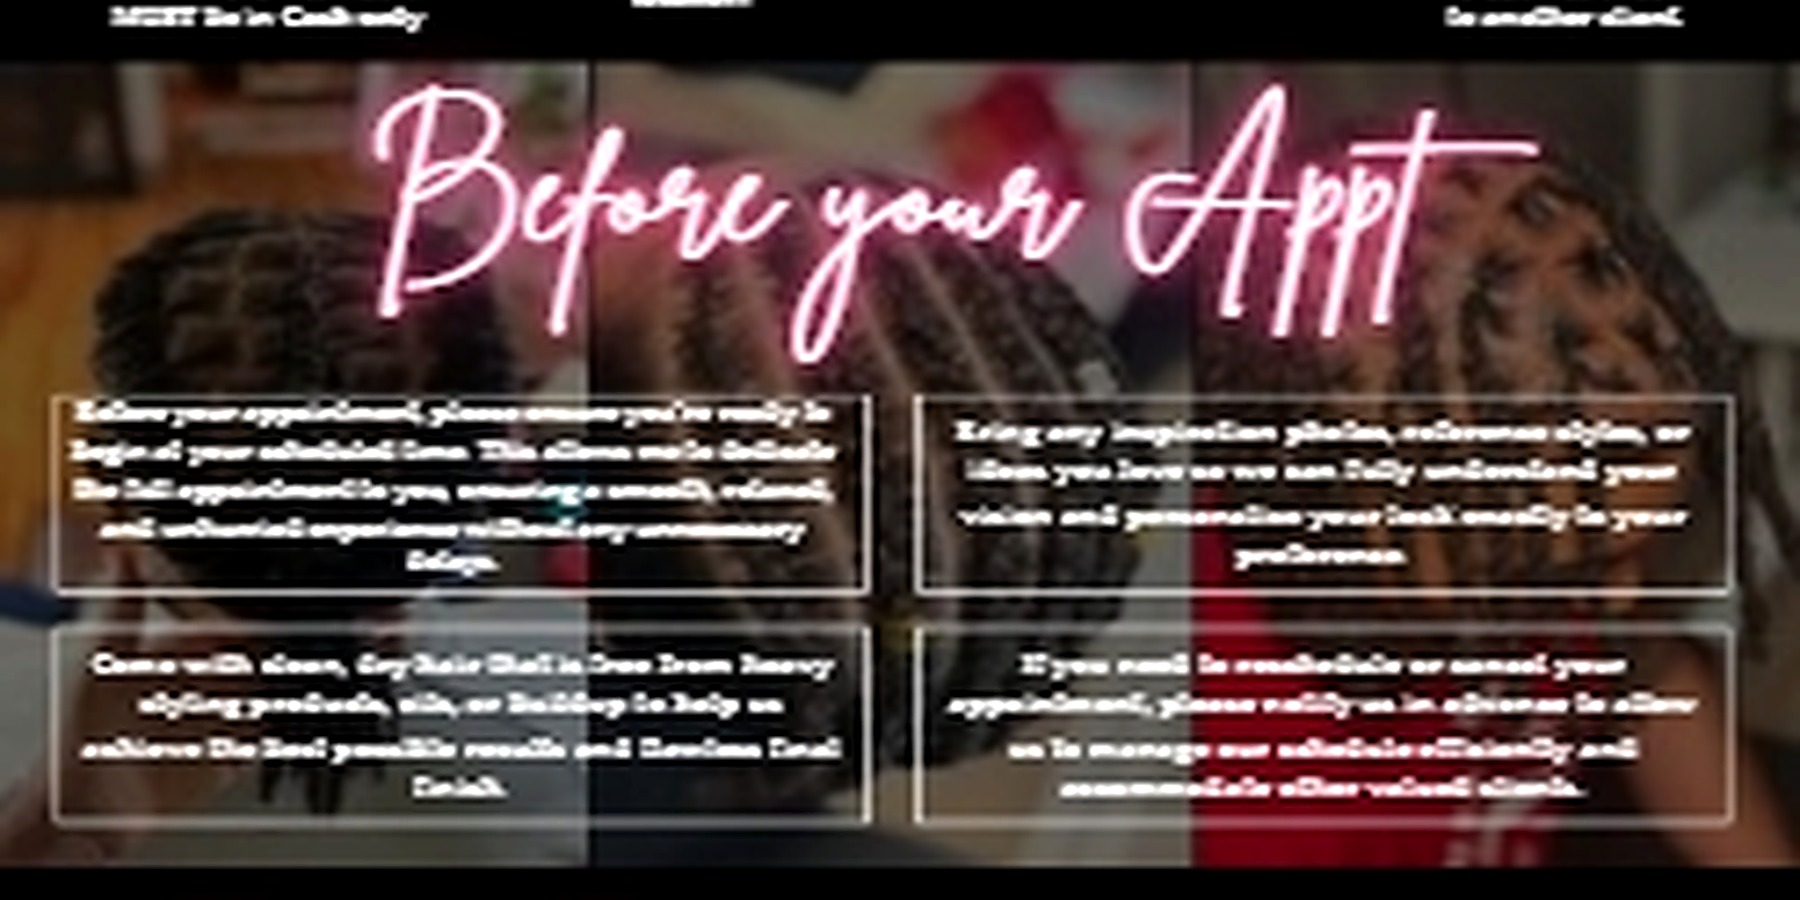
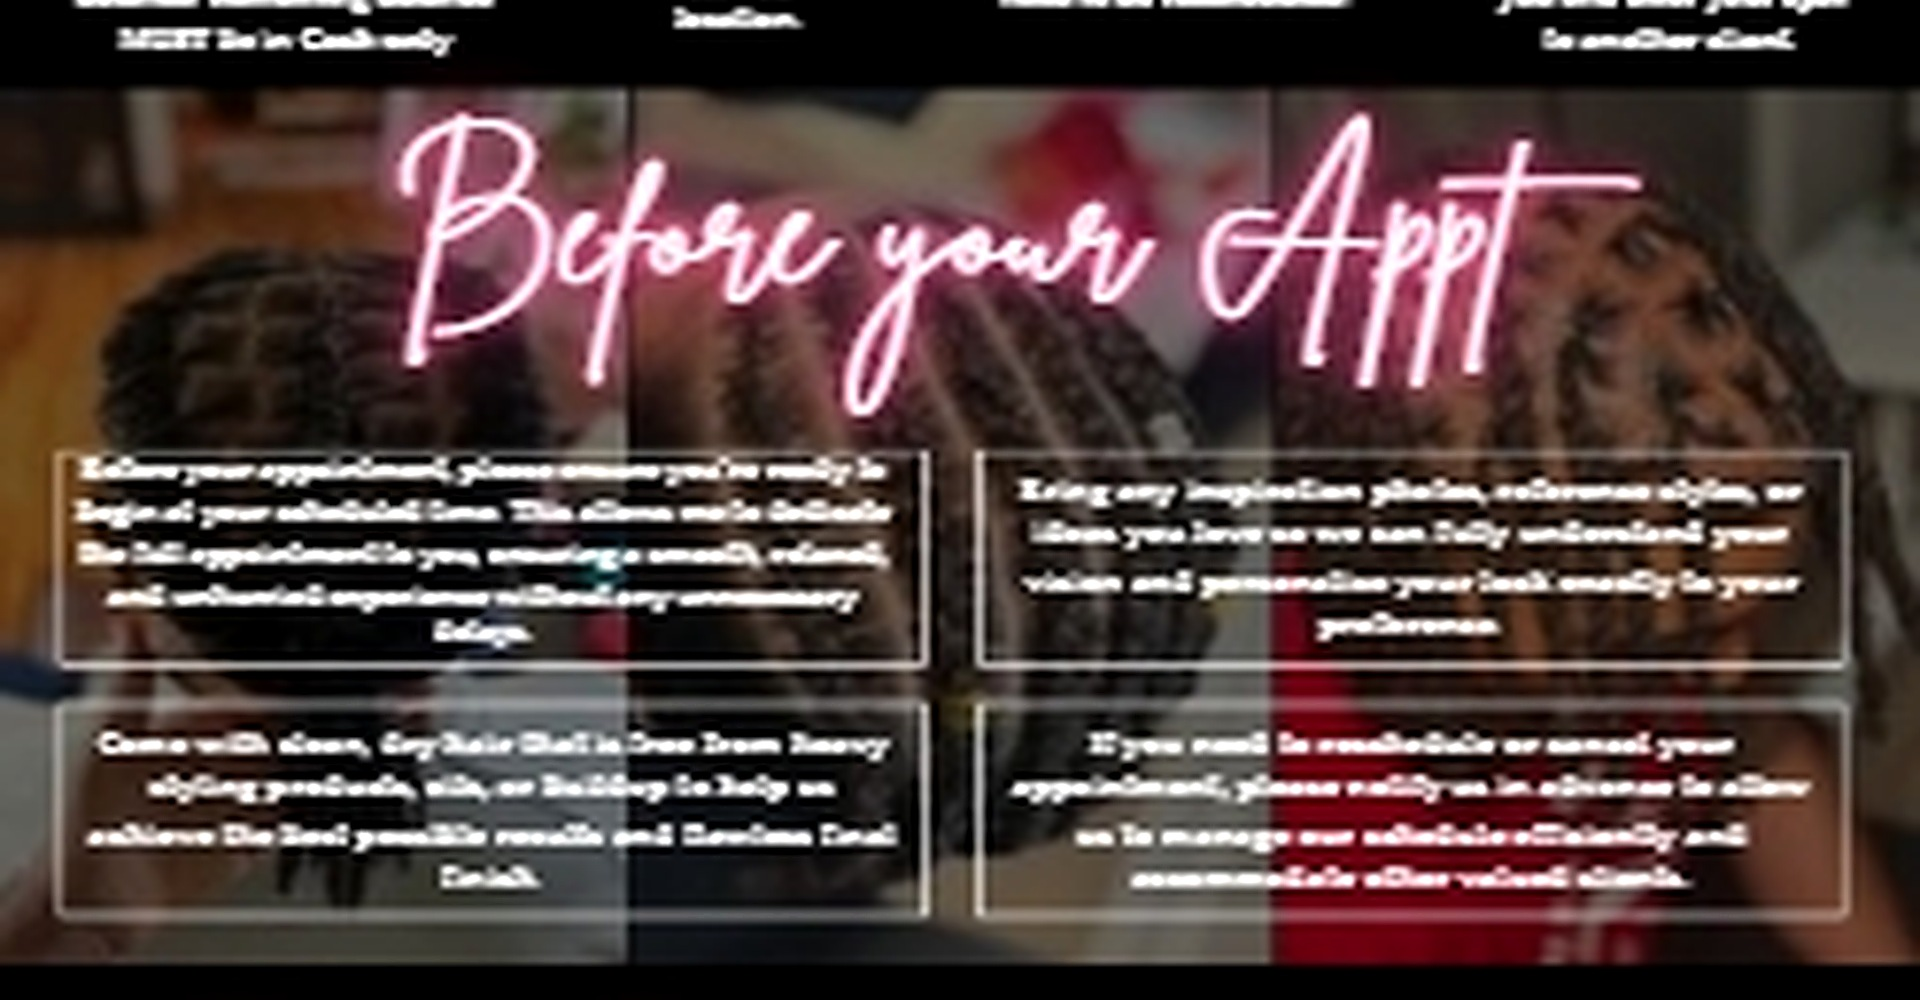
h

diff --git a/index.html b/index.html
@@ -7,13 +7,13 @@
   <link rel="preconnect" href="https://fonts.googleapis.com" />
   <link rel="preconnect" href="https://fonts.gstatic.com" crossorigin />
   <link href="https://fonts.googleapis.com/css2?family=Cinzel:wght@400;500;600&family=Cormorant+Garamond:ital,wght@0,400;0,500;1,400&family=Great+Vibes&display=swap" rel="stylesheet" />
-  <link rel="stylesheet" href="styles.css?v=13" />
+  <link rel="stylesheet" href="styles.css?v=14" />
 </head>
 <body>
   <section class="hero">
     <div class="hero-photos" aria-hidden="true">
-      <img src="images/hero-locs-left.jpg?v=7" alt="" />
-      <img src="images/hero-locs-right.jpg?v=7" alt="" />
+      <img src="images/hero-locs-left.jpg?v=8" alt="" />
+      <img src="images/hero-locs-right.jpg?v=8" alt="" />
     </div>
     <div class="hero-veil"></div>
     <div class="hero-content">
@@ -39,16 +39,14 @@
       <div class="portrait-wrap">
         <div class="portrait-sparkles" aria-hidden="true"></div>
         <div class="portrait-glow"></div>
-        <img class="portrait" src="images/stylist-portrait.jpg?v=7" alt="Tonika Lord" />
+        <img class="portrait" src="images/stylist-portrait.jpg?v=8" alt="Tonika Lord" />
       </div>
     </div>
   </section>
 
   <section class="hours-contact">
-    <div class="hours-bg" aria-hidden="true">
-      <img src="images/work-cornrows.jpg?v=4" alt="" />
-      <img src="images/work-locs.jpg?v=4" alt="" />
-      <img src="images/work-box-braids.jpg?v=4" alt="" />
+    <div class="hours-bg one" aria-hidden="true">
+      <img src="images/hours-from-canva.jpg?v=8" alt="" />
     </div>
     <div class="hours-veil"></div>
     <div class="hours-grid">
@@ -155,10 +153,8 @@
   </section>
 
   <section class="before">
-    <div class="hours-bg" aria-hidden="true">
-      <img src="images/work-box-braids.jpg?v=4" alt="" />
-      <img src="images/work-cornrows.jpg?v=4" alt="" />
-      <img src="images/polaroid-1.jpg" alt="" />
+    <div class="hours-bg one" aria-hidden="true">
+      <img src="images/before-from-canva.jpg?v=8" alt="" />
     </div>
     <div class="hours-veil"></div>
     <h2 class="neon policies-title">Before your Appt</h2>
@@ -191,23 +187,23 @@
       </ul>
     </div>
     <div class="polaroid-stack" aria-hidden="true">
-      <img class="polaroid tilt-left" src="images/polaroid-1.jpg?v=7" alt="" />
-      <img class="polaroid tilt-right" src="images/polaroid-2.jpg?v=7" alt="" />
+      <img class="polaroid tilt-left" src="images/polaroid-1.jpg?v=8" alt="" />
+      <img class="polaroid tilt-right" src="images/polaroid-2.jpg?v=8" alt="" />
     </div>
   </section>
 
   <section class="selfies">
     <div class="selfies-bg" aria-hidden="true">
-      <img src="images/work-locs.jpg?v=4" alt="" />
+      <img src="images/selfies-from-canva.jpg?v=8" alt="" />
     </div>
     <div class="hours-veil"></div>
     <div class="selfies-inner">
       <div class="phones" aria-hidden="true">
         <div class="phone tilt-left">
-          <img src="images/selfie-1.jpg?v=7" alt="" />
+          <img src="images/selfie-1.jpg?v=8" alt="" />
         </div>
         <div class="phone tilt-right">
-          <img src="images/selfie-2.jpg?v=7" alt="" />
+          <img src="images/selfie-2.jpg?v=8" alt="" />
         </div>
       </div>
       <div class="selfies-copy">
@@ -223,8 +219,8 @@
 
   <section class="thanks">
     <div class="polaroid-stack" aria-hidden="true">
-      <img class="polaroid tilt-left" src="images/polaroid-3.jpg?v=7" alt="" />
-      <img class="polaroid tilt-right" src="images/polaroid-4.jpg?v=7" alt="" />
+      <img class="polaroid tilt-left" src="images/polaroid-3.jpg?v=8" alt="" />
+      <img class="polaroid tilt-right" src="images/polaroid-4.jpg?v=8" alt="" />
     </div>
     <div class="thanks-copy">
       <h2 class="neon">Thank You</h2>

diff --git a/styles.css b/styles.css
@@ -85,12 +85,12 @@ ul {
 
 .hero-photos img:first-child {
   margin-right: -2%;
-  object-position: 58% 22%;
+  object-position: 8% 45%;
 }
 
 .hero-photos img:last-child {
   margin-left: -2%;
-  object-position: 42% 18%;
+  object-position: 92% 30%;
 }
 
 .hero-veil {
@@ -277,6 +277,18 @@ a {
 
 .hours-bg img + img {
   margin-left: -1%;
+}
+
+.hours-bg.one {
+  display: block;
+}
+
+.hours-bg.one img {
+  width: 100%;
+  height: 100%;
+  flex: none;
+  object-fit: cover;
+  filter: brightness(0.55) contrast(1.08) saturate(0.9);
 }
 
 .hours-veil {

diff --git a/book.html b/book.html
@@ -7,7 +7,7 @@
   <link rel="preconnect" href="https://fonts.googleapis.com" />
   <link rel="preconnect" href="https://fonts.gstatic.com" crossorigin />
   <link href="https://fonts.googleapis.com/css2?family=Cinzel:wght@400;500;600&family=Cormorant+Garamond:ital,wght@0,400;0,500;1,400&family=Great+Vibes&display=swap" rel="stylesheet" />
-  <link rel="stylesheet" href="styles.css?v=13" />
+  <link rel="stylesheet" href="styles.css?v=14" />
 </head>
 <body class="book-page">
   <header class="book-top">
